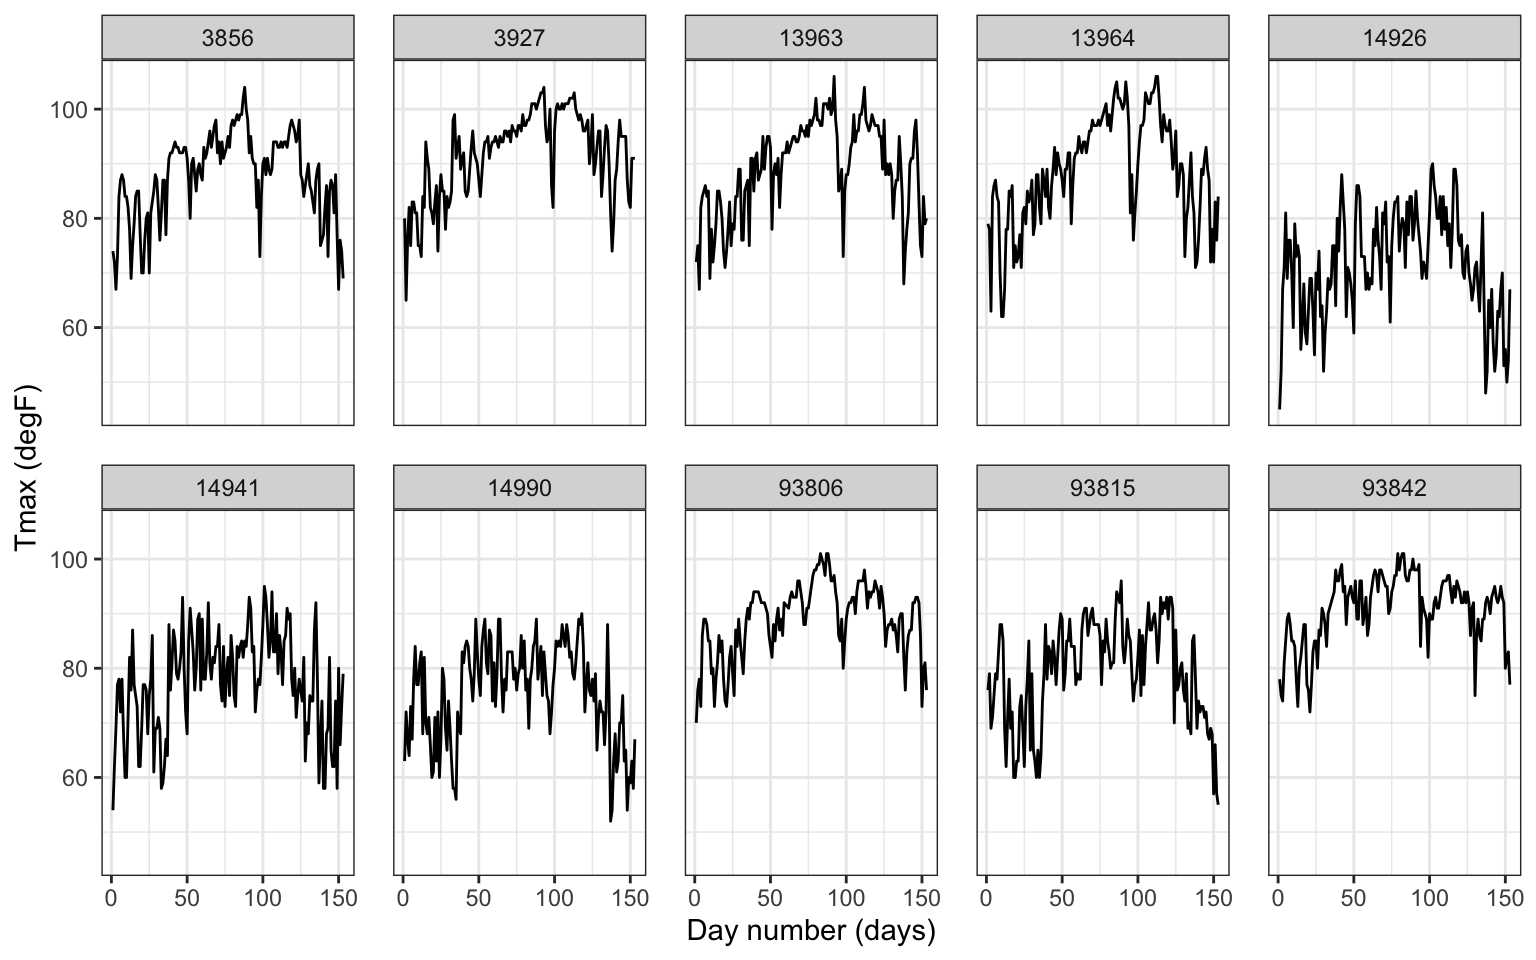
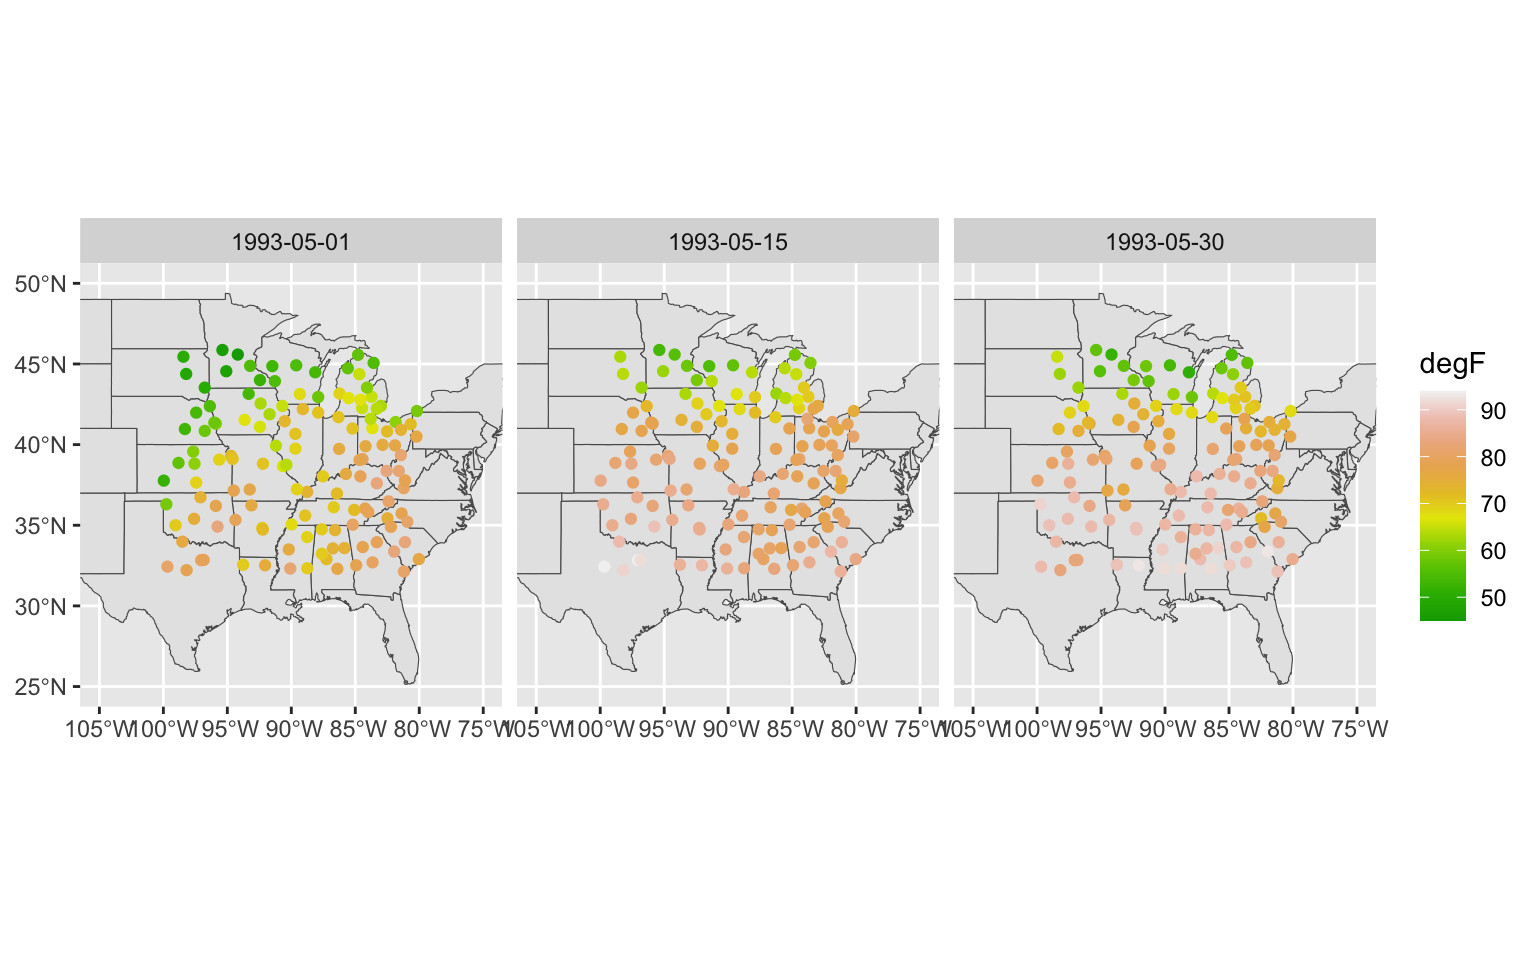
Update

diff --git a/Week11.html b/Week11.html
@@ -320,7 +320,11 @@ class="toc-section-number">1</span> Introduction</a></li>
 <li><a href="#spatial-plots" id="toc-spatial-plots"><span
 class="toc-section-number">2</span> Spatial Plots</a></li>
 <li><a href="#time-series-plots" id="toc-time-series-plots"><span
-class="toc-section-number">3</span> Time-Series Plots</a></li>
+class="toc-section-number">3</span> Time-Series Plots</a>
+<ul>
+<li><a href="#spatial-plots-1" id="toc-spatial-plots-1"><span
+class="toc-section-number">3.1</span> Spatial Plots</a></li>
+</ul></li>
 </ul>
 </div>
 
@@ -397,6 +401,36 @@ NOAA_plot &lt;- ggplot(Tmax_1) +                              # plot points
 
 NOAA_plot</code></pre>
 <p><img src="Week11_files/figure-html/unnamed-chunk-2-1.png" width="768" style="display: block; margin: auto;" /></p>
+</div>
+<div id="time-series-plots" class="section level1" number="3">
+<h1><span class="header-section-number">3</span> Time-Series Plots</h1>
+<p>First, we randomly select 10 station for visualization.</p>
+<pre class="r"><code>UIDs &lt;- unique(Tmax$id)                     # extract IDs
+UIDs_sub &lt;- sample(UIDs, 10)                # sample 10 IDs
+Tmax_sub &lt;- filter(Tmax, id %in% UIDs_sub)  # subset data
+head(Tmax_sub)</code></pre>
+<pre><code>##   julian year month day    id  z proc      lat    lon       date t
+## 1 728050 1993     5   1 13865 70 Tmax 32.33333 -88.75 1993-05-01 1
+## 2 728051 1993     5   2 13865 75 Tmax 32.33333 -88.75 1993-05-02 2
+## 3 728052 1993     5   3 13865 83 Tmax 32.33333 -88.75 1993-05-03 3
+## 4 728053 1993     5   4 13865 82 Tmax 32.33333 -88.75 1993-05-04 4
+## 5 728054 1993     5   5 13865 88 Tmax 32.33333 -88.75 1993-05-05 5
+## 6 728055 1993     5   6 13865 90 Tmax 32.33333 -88.75 1993-05-06 6</code></pre>
+<p>Next, time-series is plotted.</p>
+<pre class="r"><code>## ------------------------------------------------------------------------
+TmaxTS &lt;- ggplot(Tmax_sub) +
+    geom_line(aes(x = t, y = z)) +          # line plot of z against t
+    facet_wrap(~id, ncol = 5) +             # facet by station
+    xlab(&quot;Day number (days)&quot;) +             # x label
+    ylab(&quot;Tmax (degF)&quot;) +                   # y label
+    theme_bw() +                            # BW theme
+    theme(panel.spacing = unit(1, &quot;lines&quot;)) # facet spacing: the space between each subplots. 
+
+
+TmaxTS</code></pre>
+<p><img src="Week11_files/figure-html/unnamed-chunk-4-1.png" width="768" style="display: block; margin: auto;" /></p>
+<div id="spatial-plots-1" class="section level2" number="3.1">
+<h2><span class="header-section-number">3.1</span> Spatial Plots</h2>
 <p>We can also use <em>sf</em> object from Lab 5 and Lab 6 to achieve
 the same results</p>
 <p>First, transform the data to <em>sf</em> object using the function
@@ -414,36 +448,8 @@ Tmax_1sf = st_as_sf(Tmax_1, coords = c(&quot;lon&quot;, &quot;lat&quot;), crs = 
 
 
 NOAA_plot2</code></pre>
-<p><img src="Week11_files/figure-html/unnamed-chunk-4-1.png" width="768" style="display: block; margin: auto;" /></p>
-<p>Here is</p>
-</div>
-<div id="time-series-plots" class="section level1" number="3">
-<h1><span class="header-section-number">3</span> Time-Series Plots</h1>
-<p>First, we randomly select 10 station for visualization.</p>
-<pre class="r"><code>UIDs &lt;- unique(Tmax$id)                     # extract IDs
-UIDs_sub &lt;- sample(UIDs, 10)                # sample 10 IDs
-Tmax_sub &lt;- filter(Tmax, id %in% UIDs_sub)  # subset data
-head(Tmax_sub)</code></pre>
-<pre><code>##   julian year month day   id  z proc  lat       lon       date t
-## 1 728050 1993     5   1 3856 74 Tmax 34.7 -86.58334 1993-05-01 1
-## 2 728051 1993     5   2 3856 72 Tmax 34.7 -86.58334 1993-05-02 2
-## 3 728052 1993     5   3 3856 67 Tmax 34.7 -86.58334 1993-05-03 3
-## 4 728053 1993     5   4 3856 73 Tmax 34.7 -86.58334 1993-05-04 4
-## 5 728054 1993     5   5 3856 84 Tmax 34.7 -86.58334 1993-05-05 5
-## 6 728055 1993     5   6 3856 87 Tmax 34.7 -86.58334 1993-05-06 6</code></pre>
-<p>Next, time-series is plotted.</p>
-<pre class="r"><code>## ------------------------------------------------------------------------
-TmaxTS &lt;- ggplot(Tmax_sub) +
-    geom_line(aes(x = t, y = z)) +          # line plot of z against t
-    facet_wrap(~id, ncol = 5) +             # facet by station
-    xlab(&quot;Day number (days)&quot;) +             # x label
-    ylab(&quot;Tmax (degF)&quot;) +                   # y label
-    theme_bw() +                            # BW theme
-    theme(panel.spacing = unit(1, &quot;lines&quot;)) # facet spacing: the space between each subplots. 
-
-
-TmaxTS</code></pre>
 <p><img src="Week11_files/figure-html/unnamed-chunk-6-1.png" width="768" style="display: block; margin: auto;" /></p>
+</div>
 </div>
 
 
